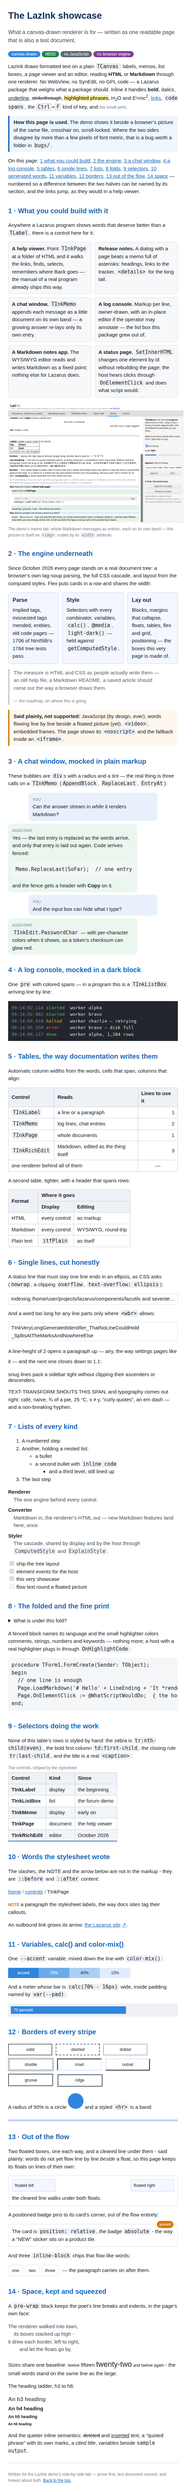
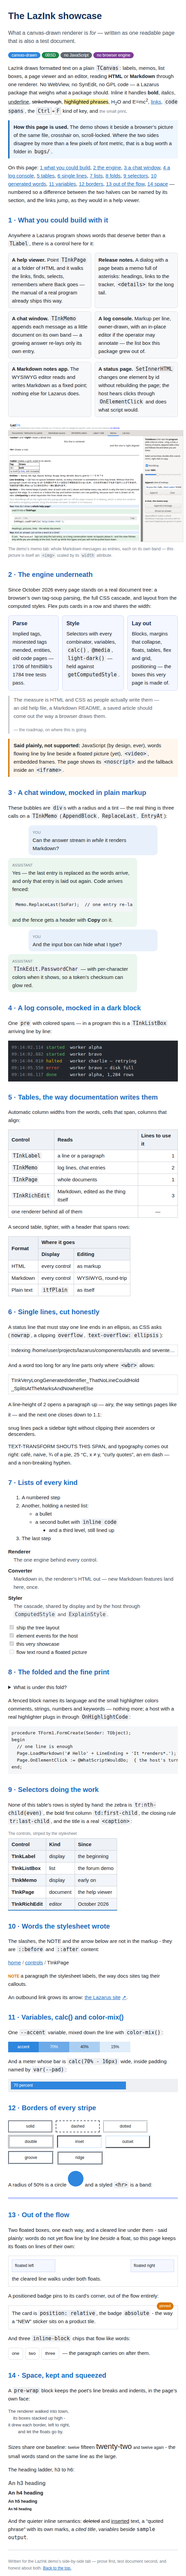
Showcase: line heights that come out in whole pixels, and fresh pictures

Changed region(s): [[0.031, 0.0, 0.9927, 0.9981], [0.7755, 0.7486, 0.8686, 0.8109], [0.6515, 0.5926, 0.7445, 0.6238]]

diff --git a/demo/showcase.html b/demo/showcase.html
@@ -17,8 +17,12 @@
          demo/showcase-browser.png 548 <height>
      (shoot once tall, read where the content ends, shoot again). -->
 <style>
+  /* Line pitches that come out whole in pixels (15px x 1.6 = 24), so
+     the comparison is not dominated by sub-pixel line stacking: LazInk
+     keeps whole-pixel line heights and loses half a pixel a line
+     against a browser's 22.5 - bugs/2026-10-11-halfpixel-lineheight. */
   body { background: #ffffff; color: #22262c; font-size: 15px;
-         font-family: Arial, sans-serif; line-height: 1.5;
+         font-family: Arial, sans-serif; line-height: 1.6;
          padding: 14px 16px }
   code, kbd, pre { font-family: 'DejaVu Sans Mono', monospace }
   h1 { color: #14315c; font-size: 27px; margin: 4px 0 2px }
@@ -27,7 +31,8 @@
   a { color: #176bbd }
   code, kbd { background: #eef0f3; padding: 1px 4px; border-radius: 3px }
   kbd { border: 1px solid #c8ccd2 }
-  pre { background: #f4f6f8; padding: 10px; overflow-x: hidden }
+  pre { background: #f4f6f8; padding: 10px; overflow-x: hidden;
+        font-size: 13px; line-height: 20px }
   pre code { background: none; padding: 0 }
   blockquote { color: #5e6670; border-left: 4px solid #c8ccd2;
                margin-left: 0; padding-left: 12px }
@@ -39,7 +44,7 @@
   th { background: #eef2f7 }
   td.num { text-align: right }
   td.mid { text-align: center }
-  .lede { font-size: 16px; color: #46505c }
+  .lede { font-size: 16px; line-height: 1.5; color: #46505c }
   .pill { border-radius: 999px; padding: 2px 10px; color: white;
           font-size: 12px; white-space: nowrap }
   .blue { background: #2e86de } .green { background: #1e8449 }
@@ -66,14 +71,14 @@
   .ans { background: #eaf6ee; margin-right: 60px }
   .who { font-size: 11px; color: #7a828c; text-transform: uppercase }
   /* the log mock */
-  pre.log { background: #22262c; color: #d6dae0; font-size: 13px }
+  pre.log { background: #22262c; color: #d6dae0 }
   .t { color: #7a828c } .ok { color: #58b368 } .err { color: #e4604e }
   .warnc { color: #d9a514 }
   /* one-line machinery */
   .clip { white-space: nowrap; overflow: hidden; text-overflow: ellipsis;
           border: 1px solid #d8dce2; padding: 4px 8px; margin: 6px 0 }
   .airy { line-height: 2 }
-  .snug { line-height: 1.1 }
+  .snug { line-height: 1.2 }
   .shout { text-transform: uppercase }
   figure { margin: 14px 0 }
   figcaption { font-size: 12px; color: #7a828c; margin-top: 4px }

diff --git a/docs/GUIDE.md b/docs/GUIDE.md
@@ -499,7 +499,7 @@ Markdown notes app - while using the vocabulary once each: tables with
 spans, flex cards, grid, pills, a mocked chat and log, `text-overflow`,
 `<wbr>`, nested folds, highlighted code, entities.  After editing it,
 remake the picture with `tools/browser_shot.sh demo/showcase.html
-demo/showcase-browser.png 548 7310` (shoot tall once and read off the
+demo/showcase-browser.png 548 7560` (shoot tall once and read off the
 new height if the page grew).
 
 ![The side by side tab](../images/demo-compare.png)
